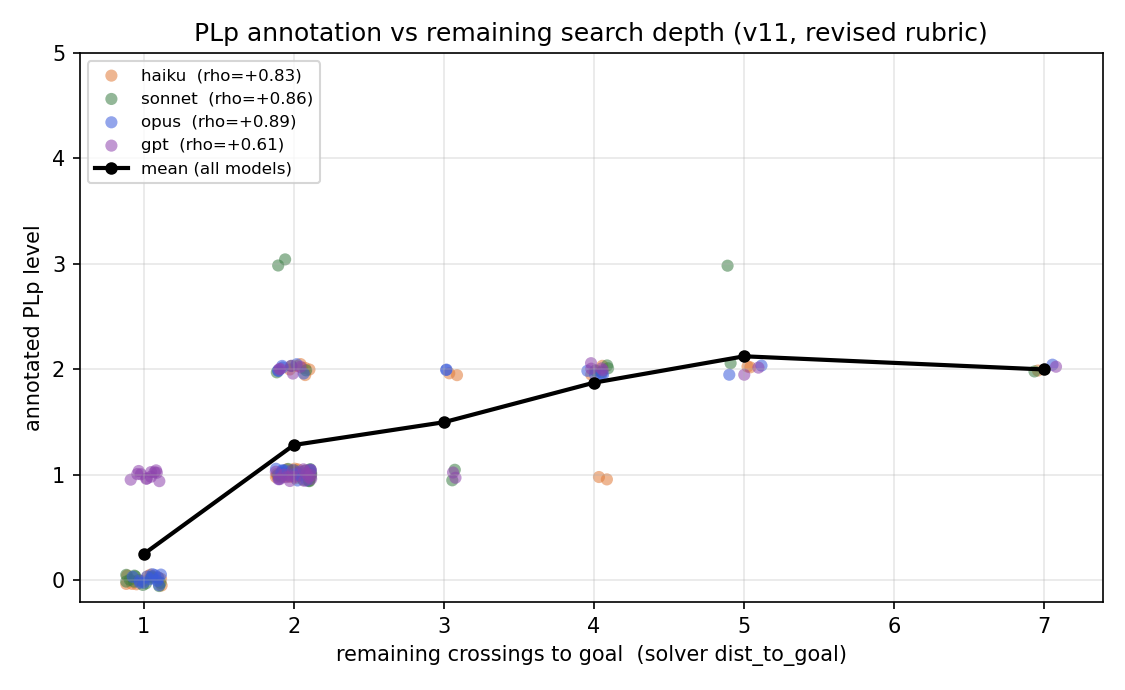
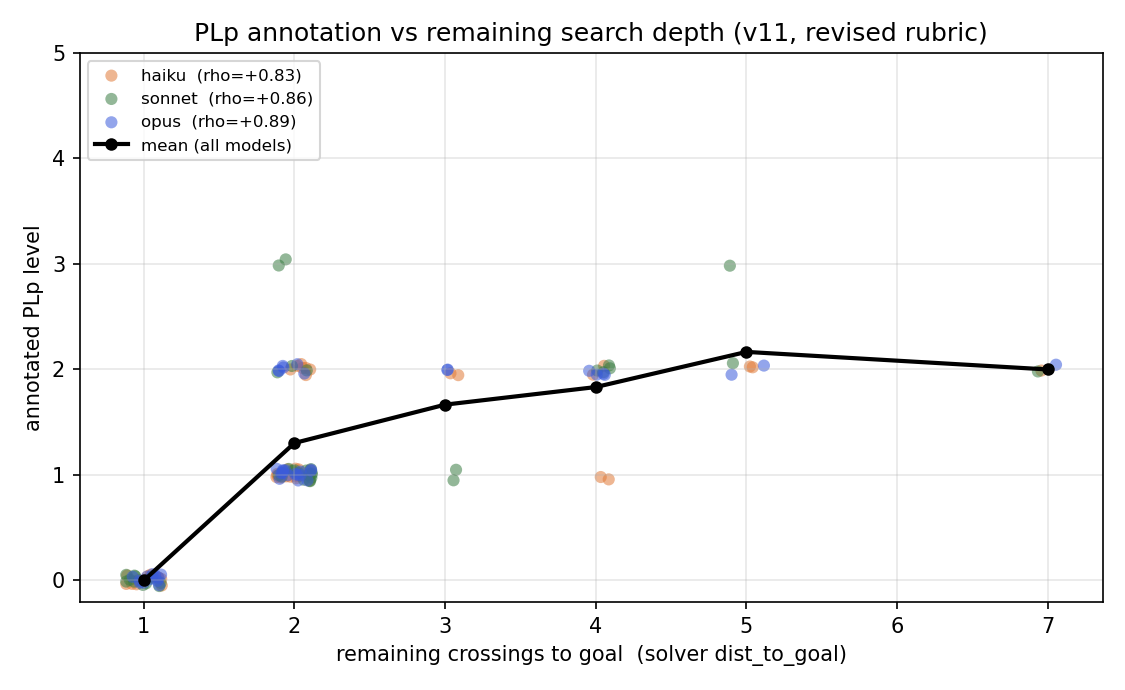
Isolate the GPT-5 cross-family check as a supplement in cross_family/
Pablo's PLp/PLe pipelines are restored exactly as the Claude-panel run
left them: analyze_plp.py / analyze_ple.py back to the 3-model panel,
gpt labels moved out of labels_v11/ and ple/labels/, and the three
original figures regenerated Claude-only.

The GPT-5 material now lives entirely under labs/rivercross/cross_family/:
labels, agreement reports, analyze_cross_family.py (reads the Claude
labels read-only), and supplementary figures where the mean lines are
computed from the Claude panel only and GPT-5 is overlaid as a separate
series (purple triangles), so it never enters the pooled statistics.

diff --git a/labs/rivercross/cross_family/analyze_cross_family.py b/labs/rivercross/cross_family/analyze_cross_family.py
@@ -1,0 +1,208 @@
+"""Cross-family (GPT-5) supplement to the PLp/PLe judge-agreement pilots.
+
+Pablo's PLp/PLe pipelines and their labels, scripts, and figures are the
+reference results and are NOT touched here. This script reads their label
+files read-only, adds the GPT-5 labels stored under cross_family/labels/,
+and writes its own reports and figures under cross_family/ so the original
+experiment stays exactly as the Claude-panel run produced it.
+
+Outputs (all under labs/rivercross/cross_family/):
+  plp_cross_family.txt, ple_cross_family.txt   - agreement reports
+  figures/plp_vs_distance_cross_family.png     - PLp scatter, GPT-5 overlaid
+  figures/ple_1b_progress_cross_family.png     - PLe-1b gradient, GPT-5 overlaid
+
+In the figures the black/blue mean lines are computed from the Claude panel
+only (matching the original figures); GPT-5 is drawn as a separate series
+(purple triangles) and never enters the pooled statistics.
+"""
+
+import io
+import itertools
+import json
+import sys
+from contextlib import redirect_stdout
+from pathlib import Path
+
+import numpy as np
+import pandas as pd
+import matplotlib
+matplotlib.use("Agg")
+import matplotlib.pyplot as plt
+from scipy.stats import spearmanr
+
+HERE = Path(__file__).resolve().parent
+RIVERCROSS = HERE.parent
+FIG = HERE / "figures"
+sys.path.insert(0, str(RIVERCROSS))
+from rivercross import PuzzleSpec, solve  # noqa: E402
+
+CLAUDE_MODELS = ["haiku", "sonnet", "opus"]
+COLORS = {"haiku": "#e07b39", "sonnet": "#3a7d44", "opus": "#3b5bdb", "gpt": "#8e44ad"}
+GPT = "gpt"
+SPECS = json.load(open(RIVERCROSS / "specs.json"))
+
+
+def qwk(a, b, K=6):
+    a, b = np.asarray(a, int), np.asarray(b, int)
+    O = np.zeros((K, K))
+    for x, y in zip(a, b):
+        O[x, y] += 1
+    w = np.array([[(i - j) ** 2 / (K - 1) ** 2 for j in range(K)] for i in range(K)])
+    E = np.outer(O.sum(1), O.sum(0)) / O.sum()
+    den = (w * E).sum()
+    return float("nan") if den == 0 else 1 - (w * O).sum() / den
+
+
+def agreement_report(df, models, tag):
+    print(f"\n=== {tag}: {len(df)} items | models: {', '.join(models)} ===")
+    for m in models:
+        vc = df[m].value_counts().sort_index().to_dict()
+        print(f"  {m:7s} mean={df[m].mean():.2f} dist={vc}")
+    for a, b in itertools.combinations(models, 2):
+        exact = (df[a] == df[b]).mean() * 100
+        w1 = (abs(df[a] - df[b]) <= 1).mean() * 100
+        print(f"  {a:6s}-{b:6s} exact={exact:3.0f}% within1={w1:3.0f}% QWK={qwk(df[a], df[b]):.2f}")
+    all_same = (df[models].nunique(axis=1) == 1).mean() * 100
+    print(f"  all-{len(models)} identical: {all_same:.0f}%")
+
+
+def load_plp(version="v11"):
+    cols = {
+        m: pd.read_csv(RIVERCROSS / "method1b" / f"labels_{version}" / f"{m}_PLp.csv")
+        .set_index("custom_id")["level"].astype(int)
+        for m in CLAUDE_MODELS
+    }
+    cols[GPT] = (
+        pd.read_csv(HERE / "labels" / f"gpt_PLp_{version}.csv")
+        .set_index("custom_id")["level"].astype(int)
+    )
+    df = pd.DataFrame(cols)
+    gt = pd.read_csv(RIVERCROSS / "method1b" / "ground_truth.csv").set_index("custom_id")
+    df["dist"] = gt["dist_to_goal"].reindex(df.index)
+    return df
+
+
+def load_ple(method):
+    cols = {
+        m: pd.read_csv(RIVERCROSS / "ple" / "labels" / method / f"{m}_PLe.csv")
+        .set_index("custom_id")["level"].astype(int)
+        for m in CLAUDE_MODELS
+    }
+    cols[GPT] = (
+        pd.read_csv(HERE / "labels" / f"gpt_PLe_{method}.csv")
+        .set_index("custom_id")["level"].astype(int)
+    )
+    return pd.DataFrame(cols)
+
+
+def ple_1b_dist(ids):
+    cache, dists = {}, {}
+    for cid in ids:
+        inst, sk = cid.split("#s")
+        if inst not in cache:
+            spec = PuzzleSpec.from_dict(SPECS[inst])
+            data = json.load(open(RIVERCROSS / "interactive" / f"{inst}.json"))
+            cache[inst] = (solve(spec), data)
+        sol, data = cache[inst]
+        st = data["trajectory"][int(sk)]
+        dists[cid] = sol.dist[(frozenset(st["left"]), st["boat"])]
+    return dists
+
+
+def plot_plp(df, version="v11"):
+    rng = np.random.default_rng(0)
+    fig, ax = plt.subplots(figsize=(7.5, 4.6))
+    for m in CLAUDE_MODELS:
+        jx = df["dist"] + rng.uniform(-0.12, 0.12, len(df))
+        jy = df[m] + rng.uniform(-0.06, 0.06, len(df))
+        rho, _ = spearmanr(df[m], df["dist"])
+        ax.scatter(jx, jy, s=34, alpha=0.55, color=COLORS[m],
+                   label=f"{m}  (rho={rho:+.2f})", edgecolors="none")
+    jx = df["dist"] + rng.uniform(-0.12, 0.12, len(df))
+    jy = df[GPT] + rng.uniform(-0.06, 0.06, len(df))
+    rho, _ = spearmanr(df[GPT], df["dist"])
+    ax.scatter(jx, jy, s=44, alpha=0.8, color=COLORS[GPT], marker="^",
+               label=f"gpt-5  (rho={rho:+.2f}, supplement)", edgecolors="none")
+    claude_long = df.melt(id_vars="dist", value_vars=CLAUDE_MODELS, value_name="level")
+    mean_by_d = claude_long.groupby("dist")["level"].mean()
+    ax.plot(mean_by_d.index, mean_by_d.values, "k-o", lw=2, ms=5,
+            label="mean (Claude panel)", zorder=5)
+    ax.set_xlabel("remaining crossings to goal  (solver dist_to_goal)")
+    ax.set_ylabel("annotated PLp level")
+    ax.set_yticks(range(0, 6))
+    ax.set_title(f"PLp annotation vs remaining search depth ({version}) + GPT-5 supplement")
+    ax.grid(alpha=0.3)
+    ax.legend(fontsize=8, loc="upper left")
+    fig.tight_layout()
+    out = FIG / "plp_vs_distance_cross_family.png"
+    fig.savefig(out, dpi=150)
+    print(f"wrote {out.relative_to(RIVERCROSS)}")
+
+
+def plot_ple_1b(df):
+    dists = ple_1b_dist(list(df.index))
+    d = np.array([dists[i] for i in df.index])
+    xs = sorted(set(d))
+    claude = df[CLAUDE_MODELS].to_numpy()
+    mean = [claude[d == x].mean() for x in xs]
+    sd = [claude[d == x].std() for x in xs]
+    gpt_mean = [df[GPT].to_numpy()[d == x].mean() for x in xs]
+    fig, ax = plt.subplots(figsize=(7.5, 4.6))
+    ax.fill_between(xs, np.array(mean) - np.array(sd), np.array(mean) + np.array(sd),
+                    alpha=0.18, color="#3b5bdb", label="+/- 1 SD across Claude panel")
+    ax.plot(xs, mean, "-o", color="#1b2f8a", lw=2.2, ms=6, label="mean PLe-1b (Claude panel)")
+    ax.plot(xs, gpt_mean, "-^", color=COLORS[GPT], lw=2.0, ms=7,
+            label="mean PLe-1b (gpt-5, supplement)")
+    ax.invert_xaxis()
+    ax.set_xlabel("remaining moves to goal (solver cost-to-go)   start = left --> goal = right")
+    ax.set_ylabel("annotated PLe level (demand-to-go)")
+    ax.set_yticks(range(0, 6))
+    ax.set_ylim(-0.3, 5.3)
+    ax.set_title("PLe demand-to-go gradient (method 1b) + GPT-5 supplement")
+    ax.grid(alpha=0.3)
+    ax.legend(fontsize=9)
+    fig.tight_layout()
+    out = FIG / "ple_1b_progress_cross_family.png"
+    fig.savefig(out, dpi=150)
+    print(f"wrote {out.relative_to(RIVERCROSS)}")
+
+
+def main():
+    FIG.mkdir(exist_ok=True)
+    models = [*CLAUDE_MODELS, GPT]
+
+    plp = load_plp()
+    buf = io.StringIO()
+    with redirect_stdout(buf):
+        print("# Generated by: python labs/rivercross/cross_family/analyze_cross_family.py")
+        print("# GPT-5 supplement; Claude labels read from the original pipelines, unmodified.")
+        agreement_report(plp, models, "PLp v11")
+        print("\nvs solver remaining horizon (dist_to_goal):")
+        for m in models:
+            rho, _ = spearmanr(plp[m], plp["dist"])
+            print(f"  {m:7s} Spearman(level, dist) = {rho:+.2f}")
+    (HERE / "plp_cross_family.txt").write_text(buf.getvalue(), encoding="utf-8")
+    print(buf.getvalue())
+
+    buf = io.StringIO()
+    with redirect_stdout(buf):
+        print("# Generated by: python labs/rivercross/cross_family/analyze_cross_family.py")
+        print("# GPT-5 supplement; Claude labels read from the original pipelines, unmodified.")
+        ple_1b = load_ple("1b")
+        agreement_report(ple_1b, models, "PLe method 1b")
+        dists = ple_1b_dist(list(ple_1b.index))
+        d = np.array([dists[i] for i in ple_1b.index])
+        print("\n  1b vs solver cost-to-go:")
+        for m in models:
+            rho, _ = spearmanr(ple_1b[m], d)
+            print(f"    {m:7s} Spearman(level, remaining-moves) = {rho:+.2f}")
+        agreement_report(load_ple("2"), models, "PLe method 2")
+    (HERE / "ple_cross_family.txt").write_text(buf.getvalue(), encoding="utf-8")
+    print(buf.getvalue())
+
+    plot_plp(plp)
+    plot_ple_1b(ple_1b)
+
+
+if __name__ == "__main__":
+    main()

diff --git a/labs/rivercross/ple/analyze_ple.py b/labs/rivercross/ple/analyze_ple.py
@@ -22,8 +22,8 @@ FIG = PILOT / "figures"
 sys.path.insert(0, str(PILOT))
 from rivercross import PuzzleSpec, solve  # noqa: E402
 
-MODELS = ["haiku", "sonnet", "opus", "gpt"]
-COLORS = {"haiku": "#e07b39", "sonnet": "#3a7d44", "opus": "#3b5bdb", "gpt": "#8e44ad"}
+MODELS = ["haiku", "sonnet", "opus"]
+COLORS = {"haiku": "#e07b39", "sonnet": "#3a7d44", "opus": "#3b5bdb"}
 SPECS = json.load(open(PILOT / "specs.json"))
 
 
@@ -31,11 +31,9 @@ def load(method):
     cols = {}
     for m in MODELS:
         p = HERE / "labels" / method / f"{m}_PLe.csv"
-        if not p.exists():
-            continue
         rows = list(csv.DictReader(p.open()))
         cols[m] = {r["custom_id"]: int(r["level"]) for r in rows}
-    ids = list(cols[next(iter(cols))])
+    ids = list(cols[MODELS[0]])
     return ids, cols
 
 
@@ -52,18 +50,17 @@ def qwk(a, b, K=6):
 
 def report(method):
     ids, cols = load(method)
-    models = list(cols)
-    arr = {m: np.array([cols[m][i] for i in ids]) for m in models}
-    print(f"\n=== method {method}: {len(ids)} items | models: {', '.join(models)} ===")
-    for m in models:
+    arr = {m: np.array([cols[m][i] for i in ids]) for m in MODELS}
+    print(f"\n=== method {method}: {len(ids)} items ===")
+    for m in MODELS:
         vc = {int(k): int(v) for k, v in zip(*np.unique(arr[m], return_counts=True))}
         print(f"  {m:7s} mean={arr[m].mean():.2f} dist={vc}")
-    for a, b in itertools.combinations(models, 2):
+    for a, b in itertools.combinations(MODELS, 2):
         exact = (arr[a] == arr[b]).mean() * 100
         w1 = (np.abs(arr[a] - arr[b]) <= 1).mean() * 100
         print(f"  {a:6s}-{b:6s} exact={exact:3.0f}% within1={w1:3.0f}% QWK={qwk(arr[a], arr[b]):.2f}")
-    all_same = np.mean([len({arr[m][k] for m in models}) == 1 for k in range(len(ids))]) * 100
-    print(f"  all-{len(models)} identical: {all_same:.0f}%")
+    all3 = np.mean([len({arr[m][k] for m in MODELS}) == 1 for k in range(len(ids))]) * 100
+    print(f"  all-3 identical: {all3:.0f}%")
     return ids, arr
 
 
@@ -86,21 +83,20 @@ def solver_dist_for_1b(ids):
 
 
 def plot_1b(ids, arr):
-    models = list(arr)
     dists = solver_dist_for_1b(ids)
     d = np.array([dists[i] for i in ids])
     print("\n  1b vs solver cost-to-go:")
-    for m in models:
+    for m in MODELS:
         rho, _ = spearmanr(arr[m], d)
         print(f"    {m:7s} Spearman(level, remaining-moves) = {rho:+.2f}")
     # pooled mean level by remaining distance
     xs = sorted(set(d))
-    mean = [np.mean([arr[m][k] for m in models for k in range(len(ids)) if d[k] == x]) for x in xs]
-    sd = [np.std([arr[m][k] for m in models for k in range(len(ids)) if d[k] == x]) for x in xs]
+    mean = [np.mean([arr[m][k] for m in MODELS for k in range(len(ids)) if d[k] == x]) for x in xs]
+    sd = [np.std([arr[m][k] for m in MODELS for k in range(len(ids)) if d[k] == x]) for x in xs]
     fig, ax = plt.subplots(figsize=(7.5, 4.6))
     ax.fill_between(xs, np.array(mean) - np.array(sd), np.array(mean) + np.array(sd),
                     alpha=0.18, color="#3b5bdb", label="+/- 1 SD across models")
-    ax.plot(xs, mean, "-o", color="#1b2f8a", lw=2.2, ms=6, label=f"mean PLe-1b ({len(arr)} models)")
+    ax.plot(xs, mean, "-o", color="#1b2f8a", lw=2.2, ms=6, label="mean PLe-1b (3 models)")
     ax.invert_xaxis()
     ax.set_xlabel("remaining moves to goal (solver cost-to-go)   start = left --> goal = right")
     ax.set_ylabel("annotated PLe level (demand-to-go)")

diff --git a/labs/rivercross/method1b/analyze_plp.py b/labs/rivercross/method1b/analyze_plp.py
@@ -22,9 +22,8 @@ from scipy.stats import spearmanr
 HERE = Path(__file__).resolve().parent
 PILOT = HERE.parent
 FIG = PILOT / "figures"
-MODELS = ["haiku", "sonnet", "opus", "gpt", "gemini-flash"]
-COLORS = {"haiku": "#e07b39", "sonnet": "#3a7d44", "opus": "#3b5bdb",
-          "gpt": "#8e44ad", "gemini-flash": "#7f8c8d"}
+MODELS = ["haiku", "sonnet", "opus"]
+COLORS = {"haiku": "#e07b39", "sonnet": "#3a7d44", "opus": "#3b5bdb"}
 GT = pd.read_csv(HERE / "ground_truth.csv").set_index("custom_id")
 
 
@@ -66,9 +65,9 @@ def report(df, tag):
             exact = (df[a] == df[b]).mean() * 100
             w1 = (abs(df[a] - df[b]) <= 1).mean() * 100
             print(f"  {a:6s}-{b:6s}  exact={exact:3.0f}%  within1={w1:3.0f}%  QWK={qwk(df[a], df[b]):.2f}")
-    if len(present) >= 3:
-        all_same = (df[present].nunique(axis=1) == 1).mean() * 100
-        print(f"all-{len(present)} identical: {all_same:.0f}%")
+    if len(present) == 3:
+        all3 = (df[present].nunique(axis=1) == 1).mean() * 100
+        print(f"all-3 identical: {all3:.0f}%")
     print("vs solver remaining horizon (dist_to_goal):")
     for m in present:
         rho, _ = spearmanr(df[m], df["dist"])

diff --git a/todo.md b/todo.md
@@ -48,7 +48,8 @@ local branch `agentic`; private staging snapshot `PabloAMC/ADeLe-AIEvaluation`.
 - [ ] Tighten **boundary overlap** between `MSe` (environmental), `MSc` (communication)
       and mind-modelling so annotators don't double-count (add contrastive examples).
 - [ ] **PLp/PLe level-0 anchor does not transfer across model families** (GPT-5
-      cross-check, `labs/rivercross/results/{plp,ple}_cross_family.txt`): on every
+      cross-check, kept as a supplement in `labs/rivercross/cross_family/`,
+      original Claude-panel pipelines untouched): on every
       state the Claude panel unanimously calls 0 (dist_to_goal=1 / near-terminal),
       GPT-5 assigns 1 (PLp) or 2 (PLe-1b); within-1 stays 100%/90% and the
       demand-to-go gradient replicates. Add a contrastive level-0 example ("a single
